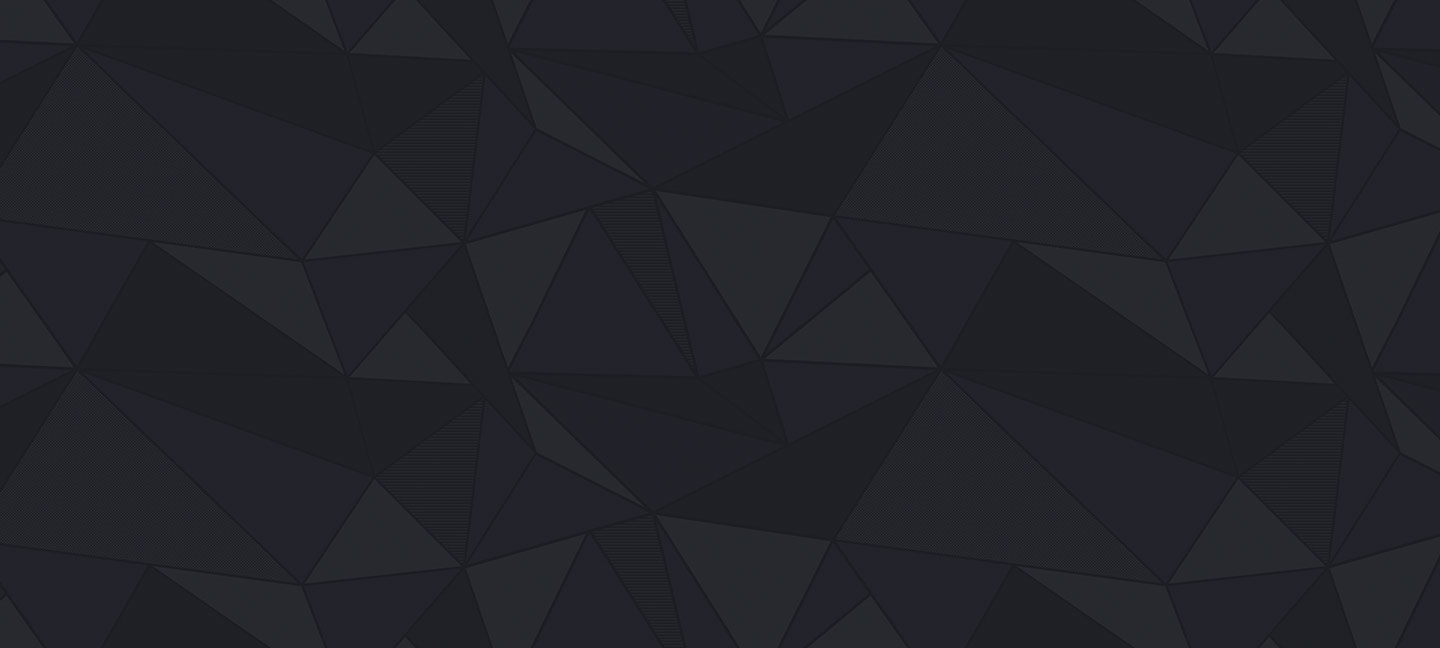
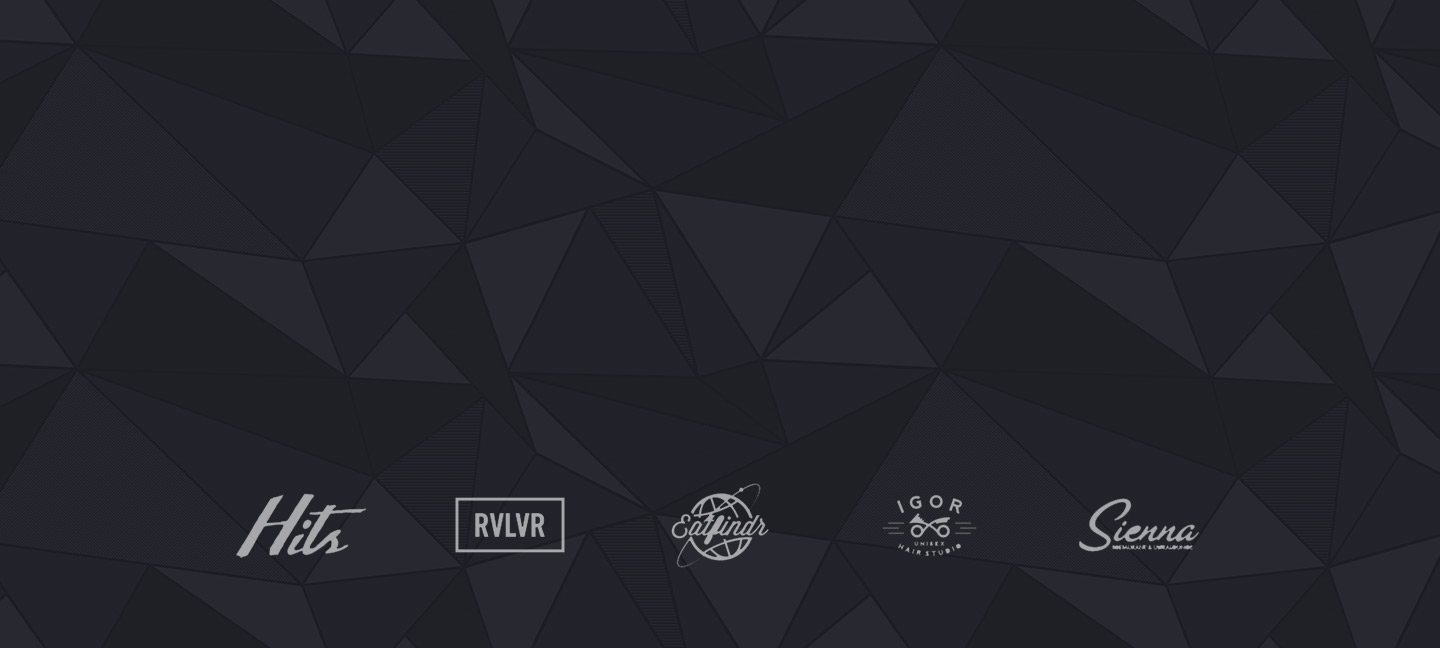
0.3.5
Add block.
Fix bug with partner.

diff --git a/css/style.css b/css/style.css
@@ -1,1 +1,1 @@
-body{width:1440px;margin-left:0}header{background:url(../img/header-bg.jpg)}header .header-description{width:750px;text-align:center;padding-top:167px;padding-bottom:205px;margin-left:auto;margin-right:auto;display:block}header .header-description h1{font-family:Exo,sans-serif;font-size:60px;line-height:75px;font-weight:lighter;color:#282828;letter-spacing:2px}header .header-description .btn-play{display:block;margin:41px auto 39px;width:59px;height:59px;border-radius:50%;border:none;font-size:0;background:url(../img/play.png) center no-repeat #8286a4}header .header-description .btn{padding:0 50px;font-family:Exo,sans-serif;font-size:16px;line-height:50px;font-weight:400;color:#fff;background:#ff6d6d;border:none;text-transform:uppercase;letter-spacing:3px;border-radius:5px}header .header-description span{display:block;font-family:Exo,sans-serif;font-size:14px;line-height:54px;font-weight:400;color:#282828;letter-spacing:1px}main .about-design .design-description-top{float:left;width:590px;margin-top:187px;margin-left:149px}main .about-design .design-description-top span{font-family:Exo,sans-serif;font-size:16px;font-weight:500;color:#ff6d6d;letter-spacing:3px}main .about-design .design-description-top h2{margin:6px 0 40px;font-family:Exo,sans-serif;font-size:40px;line-height:50px;font-weight:500;color:#282828;letter-spacing:2px}main .about-design .design-description-top h2 span{font-family:Exo,sans-serif;font-size:40px;font-weight:500;color:#ff6d6d}main .about-design .design-description-top p{margin-top:25px;font-family:Exo,sans-serif;font-size:16px;line-height:26px;font-weight:500;color:#282828;letter-spacing:1px}main .about-design .img-macbook{float:left;margin-bottom:-20px}main .about-design .design-description-middle{float:right;width:533px;margin-top:137px;margin-right:170px;margin-bottom:127px}main .about-design .design-description-middle span{font-family:Exo,sans-serif;font-size:16px;font-weight:500;color:#ff6d6d;letter-spacing:3px}main .about-design .design-description-middle h2{margin:12px 0 0;font-family:Exo,sans-serif;font-size:40px;line-height:50px;font-weight:500;color:#282828;letter-spacing:2px}main .about-design .design-description-middle h2 span{font-family:Exo,sans-serif;font-size:40px;font-weight:500;color:#ff6d6d}main .about-design .design-description-middle p{margin-top:33px;font-family:Exo,sans-serif;font-size:16px;line-height:26px;font-weight:500;color:#282828;letter-spacing:1px}main .about-design .decorate-block{float:right}main .features-bg{background:url(../img/features.jpg) no-repeat}main .about-features{padding-bottom:166px}main .about-features span{display:block;text-align:center;padding-top:130px;font-family:Exo,sans-serif;font-size:16px;font-weight:500;color:#ff6d6d;letter-spacing:3px}main .about-features h2{text-align:center;font-family:Exo,sans-serif;font-size:40px;line-height:50px;font-weight:500;color:#282828;margin-top:6px;letter-spacing:2px}main .about-features .features-item{float:left;width:360px;margin-top:44px;margin-left:27px}main .about-features .features-item img{display:block;margin:auto}main .about-features .features-item h3{margin-bottom:0;font-family:Exo,sans-serif;font-size:22px;line-height:46px;font-weight:500;color:#282828;text-align:center;margin-top:15px;letter-spacing:1px}main .about-features .features-item p{margin-top:0;font-family:Exo,sans-serif;font-size:16px;line-height:26px;font-weight:500;color:#282828;letter-spacing:1px;text-align:center}main .about-features .item-1{margin-left:148px;margin-right:3px}main .staff{background:url(../img/client-bg.jpg)}main .staff .staff-item{width:360px;float:left;margin-top:108px;margin-left:30px}main .staff .staff-item img{display:block;margin:auto}main .staff .staff-item span{display:block;text-align:center}main .staff .staff-item .name{margin-top:19px;font-family:Exo,sans-serif;font-size:22px;font-weight:500;line-height:29px;color:#fff;letter-spacing:1px}main .staff .staff-item .position{margin-top:3px;font-family:Exo,sans-serif;font-size:16px;font-weight:500;color:#ff6d6d}main .staff .staff-item p{margin-top:28px;font-family:Exo,sans-serif;font-weight:400;font-style:italic;line-height:26px;font-size:16px;color:#fff;text-align:center}main .staff .item-1{margin-left:148px}main .staff .company{clear:both}main .staff .company ul li{display:inline-block;margin-top:69px;margin-left:117px}.clearfix::after{content:"";display:table;clear:both}
+body{width:1440px;margin-left:0}header{background:url(../img/header-bg.jpg)}header .header-description{width:750px;text-align:center;padding-top:167px;padding-bottom:205px;margin-left:auto;margin-right:auto;display:block}header .header-description h1{font-family:Exo,sans-serif;font-size:60px;line-height:75px;font-weight:lighter;color:#282828;letter-spacing:2px}header .header-description .btn-play{display:block;margin:41px auto 39px;width:59px;height:59px;border-radius:50%;border:none;font-size:0;background:url(../img/play.png) center no-repeat #8286a4}header .header-description .btn{padding:0 50px;font-family:Exo,sans-serif;font-size:16px;line-height:50px;font-weight:400;color:#fff;background:#ff6d6d;border:none;text-transform:uppercase;letter-spacing:3px;border-radius:5px}header .header-description span{display:block;font-family:Exo,sans-serif;font-size:14px;line-height:54px;font-weight:400;color:#282828;letter-spacing:1px}main .about-design .design-description-top{float:left;width:590px;margin-top:187px;margin-left:149px}main .about-design .design-description-top span{font-family:Exo,sans-serif;font-size:16px;font-weight:500;color:#ff6d6d;letter-spacing:3px}main .about-design .design-description-top h2{margin:6px 0 40px;font-family:Exo,sans-serif;font-size:40px;line-height:50px;font-weight:500;color:#282828;letter-spacing:2px}main .about-design .design-description-top h2 span{font-family:Exo,sans-serif;font-size:40px;font-weight:500;color:#ff6d6d}main .about-design .design-description-top p{margin-top:25px;font-family:Exo,sans-serif;font-size:16px;line-height:26px;font-weight:500;color:#282828;letter-spacing:1px}main .about-design .img-macbook{float:left;margin-bottom:-20px}main .about-design .design-description-middle{float:right;width:533px;margin-top:137px;margin-right:170px;margin-bottom:127px}main .about-design .design-description-middle span{font-family:Exo,sans-serif;font-size:16px;font-weight:500;color:#ff6d6d;letter-spacing:3px}main .about-design .design-description-middle h2{margin:12px 0 0;font-family:Exo,sans-serif;font-size:40px;line-height:50px;font-weight:500;color:#282828;letter-spacing:2px}main .about-design .design-description-middle h2 span{font-family:Exo,sans-serif;font-size:40px;font-weight:500;color:#ff6d6d}main .about-design .design-description-middle p{margin-top:33px;font-family:Exo,sans-serif;font-size:16px;line-height:26px;font-weight:500;color:#282828;letter-spacing:1px}main .about-design .decorate-block{float:right}main .features-bg{background:url(../img/features.jpg) no-repeat}main .about-features{padding-bottom:166px}main .about-features span{display:block;text-align:center;padding-top:130px;font-family:Exo,sans-serif;font-size:16px;font-weight:500;color:#ff6d6d;letter-spacing:3px}main .about-features h2{text-align:center;font-family:Exo,sans-serif;font-size:40px;line-height:48px;font-weight:500;color:#282828;margin-top:6px;letter-spacing:2px}main .about-features .features-item{float:left;width:360px;margin-top:44px;margin-left:27px}main .about-features .features-item img{display:block;margin:auto}main .about-features .features-item h3{margin-bottom:0;font-family:Exo,sans-serif;font-size:22px;line-height:46px;font-weight:500;color:#282828;text-align:center;margin-top:15px;letter-spacing:1px}main .about-features .features-item p{margin-top:0;font-family:Exo,sans-serif;font-size:16px;line-height:26px;font-weight:500;color:#282828;letter-spacing:1px;text-align:center}main .about-features .item-1{margin-left:148px;margin-right:3px}main .staff{background:url(../img/client-bg.jpg) no-repeat}main .staff .staff-item{width:360px;float:left;margin-top:108px;margin-left:30px;margin-bottom:241px}main .staff .staff-item img{display:block;margin:auto}main .staff .staff-item span{display:block;text-align:center}main .staff .staff-item .name{margin-top:19px;font-family:Exo,sans-serif;font-size:22px;font-weight:500;line-height:29px;color:#fff;letter-spacing:1px}main .staff .staff-item .position{margin-top:3px;font-family:Exo,sans-serif;font-size:16px;font-weight:500;color:#ff6d6d}main .staff .staff-item p{margin-top:28px;font-family:Exo,sans-serif;font-weight:400;font-style:italic;line-height:26px;font-size:16px;color:#fff;text-align:center}main .staff .item-1{margin-left:148px}main .staff .company{clear:both}main .staff .company ul li{display:inline-block;margin-top:69px;margin-left:117px}main .features-middle{text-align:center;padding-bottom:0}main .features-middle span{padding-top:101px}main .features-middle p{width:692px;margin:auto;font-family:Exo,sans-serif;font-size:16px;font-weight:500;line-height:26px;color:#282828;text-align:center}main .features-middle img{margin-top:92px}.clearfix::after{content:"";display:table;clear:both}

diff --git a/css/style.less b/css/style.less
@@ -186,7 +186,7 @@ main {
 			text-align: center;
 			font-family: 'Exo', sans-serif;
 			font-size: 40px;
-			line-height: 50px;
+			line-height: 48px;
 			font-weight: 500;
 			color: #282828;
 			margin-top: 6px;
@@ -235,13 +235,14 @@ main {
 	}
 
 	.staff {
-		background: url(../img/client-bg.jpg);
+		background: url(../img/client-bg.jpg) no-repeat;
 
 		.staff-item {
 			width: 360px;
 			float: left;
 			margin-top: 108px;
 			margin-left: 30px;
+			margin-bottom: 241px;
 			
 			img {
 				display: block;
@@ -280,7 +281,6 @@ main {
 				font-size: 16px;
 				color: #ffffff;
 				text-align: center;
-
 			}
 		}
 
@@ -297,6 +297,31 @@ main {
 					margin-left: 117px;
 				}
 			}
+		}
+	}
+
+	.features-middle {
+		text-align: center;
+		padding-bottom: 0px;
+
+		span {
+			padding-top: 101px;
+		}
+
+		p {
+			width: 692px;
+			margin: auto;
+			font-family: 'Exo', sans-serif;
+			font-size: 16px;
+			font-weight: 500;
+			line-height: 26px;
+			color: #282828;
+			text-align: center;
+
+		}
+
+		img {
+			margin-top: 92px;
 		}
 	}
 }

diff --git a/index.html b/index.html
@@ -73,8 +73,8 @@
 					<span class="name">Jonathon Doe</span>
 					<span class="position">Co Founder</span>
   				<p>“Aenean eu leo quam. Pellentesque ornare sem lacinia qua emere wancerid elit non mi porta gravida at eget metus. Curabitur blandit tempus porttitor. Etiasem malesuada magn”</p>
-  			</div>
-  			<div class="company">
+  			</div><!-- 
+  			<div class="company"> Проблема 
   				<ul>
   					<li>
   						<a href="#">
@@ -102,9 +102,9 @@
   						</a>
   					</li>
   				</ul>
-  			</div>
+  			</div> -->
   		</section>
-  		<section class="about-features">
+  		<section class="about-features features-middle">
   			<span>NEW FEATURES</span>
   			<h2>Some awesone features</h2>
   			<p>Aenean eu leo quam. Pellentesque ornare sem lacinia quam venenatis vestibulum. Donec id elit non mi porta gravida at eget metus. Curabitur blandit tempus porttitor. Etiasem malesuada magn. Vestibulum felis euismod semper.</p>
